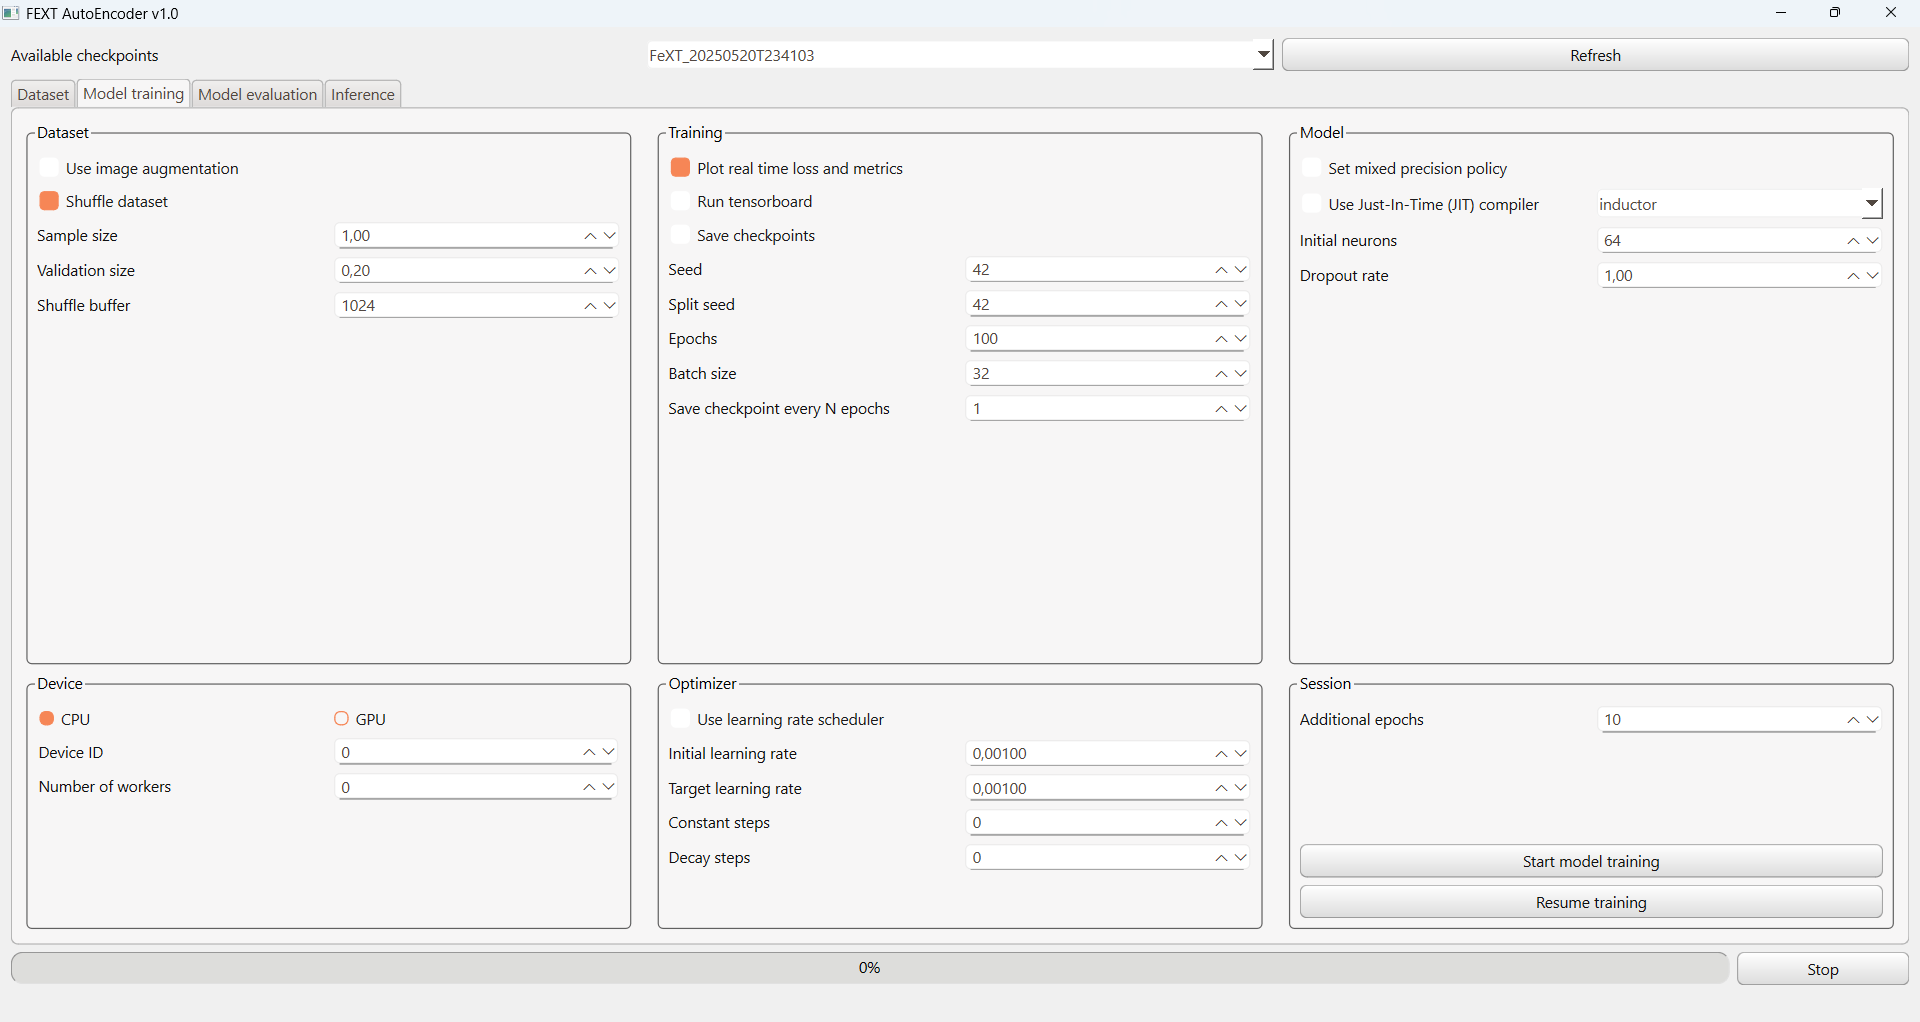
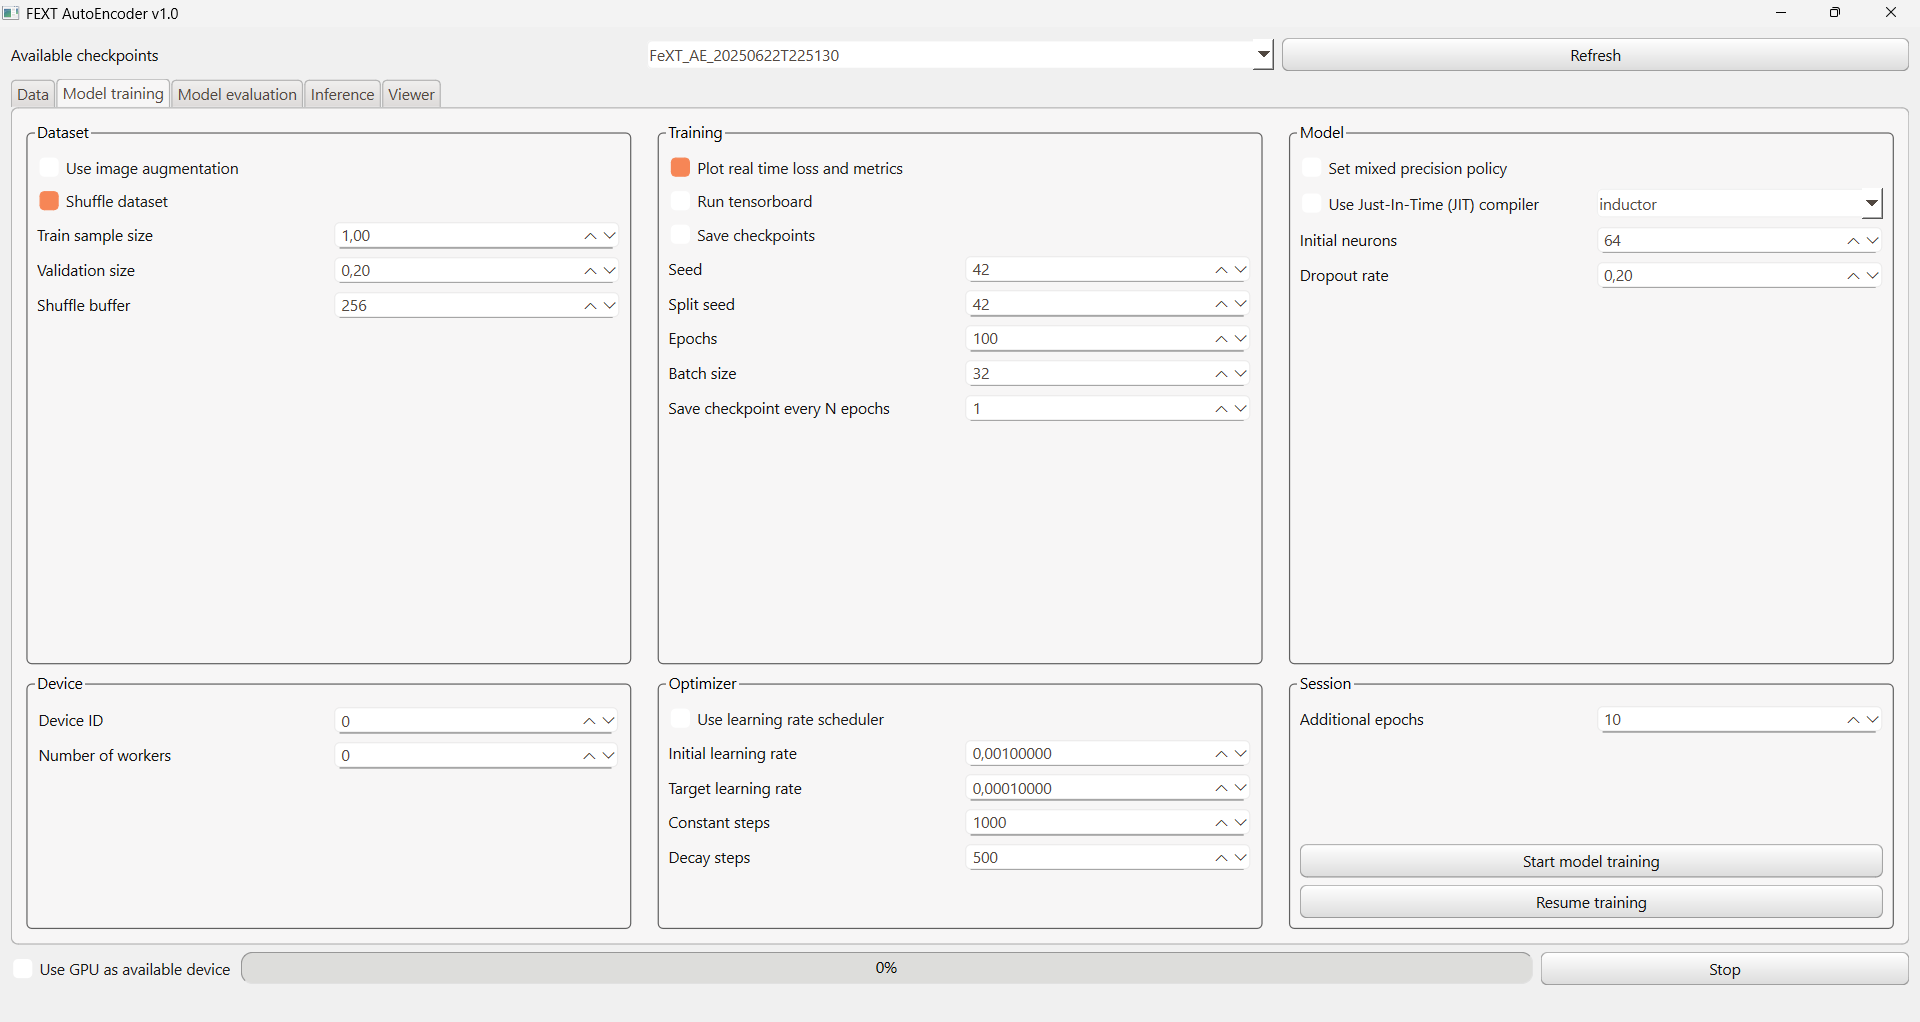
updated readme and added images

diff --git a/README.md b/README.md
@@ -34,11 +34,13 @@ On Windows, run *start_on_windows.bat* to launch the application. Please note th
 
 The main interface streamlines navigation across the application's core services, including dataset evaluation, model training and evaluation, and inference. Users can easily visualize generated plots and browse both training and inference images. Models training supports customizable configurations and also allows resuming previous sessions using pretrained models.
 
-**Dataset:** the image dataset is analyzed and validated using different metrics. The following analysis are then performed on the image dataset:
+**Data:** the image dataset is analyzed and validated using different metrics. The following analysis are then performed on the image dataset:
 
 - **Calculation of images statistics**: pixels mean values, standard deviation, values range, noise ratio
 - **Calculation of average pixel distribution**
 - **Average pixel distribution of train versus validation**   
+
+![data_tab](FEXT/commons/assets/data_tab.png)
 
 **Model training:** train the FEXT Autoencoder from scratch or resume training for previously trained models.
 
@@ -48,13 +50,19 @@ The main interface streamlines navigation across the application's core services
 - **Average mean squared error and mean average error of reconstruction** 
 - **Visual comparison of random reconstructed images** 
 
+![model_eval_tab](FEXT/commons/assets/model_eval_tab.png)
+
 **Inference:** select a model checkpoint and use it to encode images into an abstract representation of the most relevant features. These low-dimension embeddings are saved as .npy files in *resources/inference*
+
+![inference_tab](FEXT/commons/assets/inference_tab.png)
 
 **Viewer:** this tab is dedicated to image and plots visualisation, the user may select one fo the following options
 - **Training images**: visualize training images located in *resources/database/dataset*  
 - **Inference images**: visualize inference images located in *resources/database/inference*  
 - **Dataset evaluation plots**: visualize plots generated from dataset evaluation pipeline  
 - **Model evalution plots**: visualize plots generated from model evaluation pipeline  
+
+![viewer_tab](FEXT/commons/assets/viewer_tab.png)
 
 
 **Setup and Maintenance:** you can run *setup_and_maintenance.bat* to start the external tools for maintenance with the following options:
